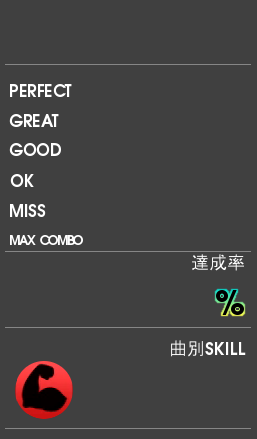
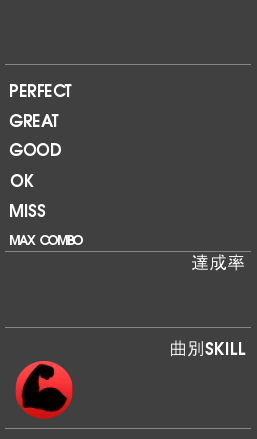
Transfer the drawing of % to code. Add % character to ratenumber.png

Changed region(s): [[0.8093, 0.6515, 0.965, 0.7403]]

diff --git a/DTXManiaプロジェクト/コード/ステージ/08.結果/CActResultParameterPanel.cs b/DTXManiaプロジェクト/コード/ステージ/08.結果/CActResultParameterPanel.cs
@@ -16,7 +16,7 @@ namespace DTXMania
         public CActResultParameterPanel()
         {
             this.tx文字 = new CTexture[3];
-            ST文字位置[] st文字位置Array = new ST文字位置[11];
+            ST文字位置[] st文字位置Array = new ST文字位置[12];
             ST文字位置 st文字位置 = new ST文字位置();
             st文字位置.ch = '0';
             st文字位置.pt = new Point(0, 0);
@@ -61,6 +61,11 @@ namespace DTXMania
             st文字位置11.ch = '.';
             st文字位置11.pt = new Point(280, 0);
             st文字位置Array[10] = st文字位置11;
+            //Added by KSM 17/04/2016:
+            ST文字位置 st文字位置Percent = new ST文字位置();
+            st文字位置Percent.ch = '%';
+            st文字位置Percent.pt = new Point(291, 0);
+            st文字位置Array[11] = st文字位置Percent;
             this.st大文字位置 = st文字位置Array;
 
             ST文字位置[] st文字位置Array2 = new ST文字位置[11];
@@ -420,7 +425,7 @@ namespace DTXMania
                     this.t小文字表示(167 + this.n本体X[j], 192 + this.n本体Y, string.Format("{0,3:##0}%", (int)Math.Round(CDTXMania.stage結果.fMiss率[j])));
                     this.t小文字表示(167 + this.n本体X[j], 222 + this.n本体Y, string.Format("{0,3:##0}%", (int)Math.Round((100.0 * CDTXMania.stage結果.st演奏記録[j].n最大コンボ数 / CDTXMania.stage結果.st演奏記録[j].n全チップ数))));
 
-                    this.t大文字表示(58 + this.n本体X[j], 277 + this.n本体Y, string.Format("{0,6:##0.00}", CDTXMania.stage結果.st演奏記録[j].db演奏型スキル値));
+                    this.t大文字表示(58 + this.n本体X[j], 277 + this.n本体Y, string.Format("{0,6:##0.00}%", CDTXMania.stage結果.st演奏記録[j].db演奏型スキル値));
                     this.t大文字表示(88 + this.n本体X[j], 363 + this.n本体Y, string.Format("{0,6:##0.00}", CDTXMania.stage結果.st演奏記録[j].dbゲーム型スキル値));
                     
                     if(this.tx難易度パネル != null)
@@ -574,6 +579,11 @@ namespace DTXMania
 						{
 							rectangle.Width -= 18;
 						}
+                        //KSM added: '%' has width of 30 
+                        else if( ch == '%') 
+                        {
+                            rectangle.Width += 2;
+                        }
 						if( this.tx文字[ 1 ] != null )
 						{
 							this.tx文字[ 1 ].t2D描画( CDTXMania.app.Device, x, y, rectangle );
@@ -581,7 +591,7 @@ namespace DTXMania
 						break;
 					}
 				}
-                x += (ch == '.' ? 12 : 28);
+                x += (ch == '.' ? 12 : 29);//Was 28
 			}
 		}
         private void t特大文字表示(int x, int y, string str)

diff --git a/DTXManiaプロジェクト/コード/ステージ/07.演奏/ドラム画面/CAct演奏Drumsステータスパネル.cs b/DTXManiaプロジェクト/コード/ステージ/07.演奏/ドラム画面/CAct演奏Drumsステータスパネル.cs
@@ -15,7 +15,7 @@ namespace DTXMania
         public CAct演奏Drumsステータスパネル()
         {
             this.txパネル文字 = new CTexture[2];
-            ST文字位置[] st文字位置Array = new ST文字位置[11];
+            ST文字位置[] st文字位置Array = new ST文字位置[12];//Change to 12
             ST文字位置 st文字位置 = new ST文字位置();
             st文字位置.ch = '0';
             st文字位置.pt = new Point(0, 0);
@@ -60,6 +60,11 @@ namespace DTXMania
             st文字位置11.ch = '.';
             st文字位置11.pt = new Point(280, 0);
             st文字位置Array[10] = st文字位置11;
+            //Added by KSM 17/04/2016:
+            ST文字位置 st文字位置Percent = new ST文字位置();
+            st文字位置Percent.ch = '%';
+            st文字位置Percent.pt = new Point(291, 0);
+            st文字位置Array[11] = st文字位置Percent;
             this.st大文字位置 = st文字位置Array;
 
             ST文字位置[] st文字位置Array2 = new ST文字位置[12];
@@ -396,7 +401,7 @@ bmpCardName = this.prv表示用フォント.DrawPrivateFont( this.strPlayerName,
                 this.t小文字表示(167 + this.n本体X[i], 192 + this.n本体Y, string.Format("{0,3:##0}%", dbMISS率));
                 this.t小文字表示(167 + this.n本体X[i], 222 + this.n本体Y, string.Format("{0,3:##0}%", dbMAXCOMBO率));
 
-                this.t大文字表示(58 + this.n本体X[i], 277 + this.n本体Y, string.Format("{0,6:##0.00}", CDTXMania.stage演奏ドラム画面.actGraph.dbグラフ値現在_渡));
+                this.t大文字表示(58 + this.n本体X[i], 277 + this.n本体Y, string.Format("{0,6:##0.00}%", CDTXMania.stage演奏ドラム画面.actGraph.dbグラフ値現在_渡));
 
                 // 060316 limyz added if/else conditions to detect if DLEVEL is <100 or >100 to determine its 0.05 decimal point value
                 if (CDTXMania.DTX.LEVEL[i] < 100) {
@@ -470,6 +475,11 @@ bmpCardName = this.prv表示用フォント.DrawPrivateFont( this.strPlayerName,
                         if (ch == '.')
                         {
                             rectangle.Width -= 18;
+                        }
+                        //KSM added: '%' has width of 30 
+                        else if(ch == '%')
+                        {
+                            rectangle.Width += 2;
                         }
                         if (this.txパネル文字[1] != null)
                         {
